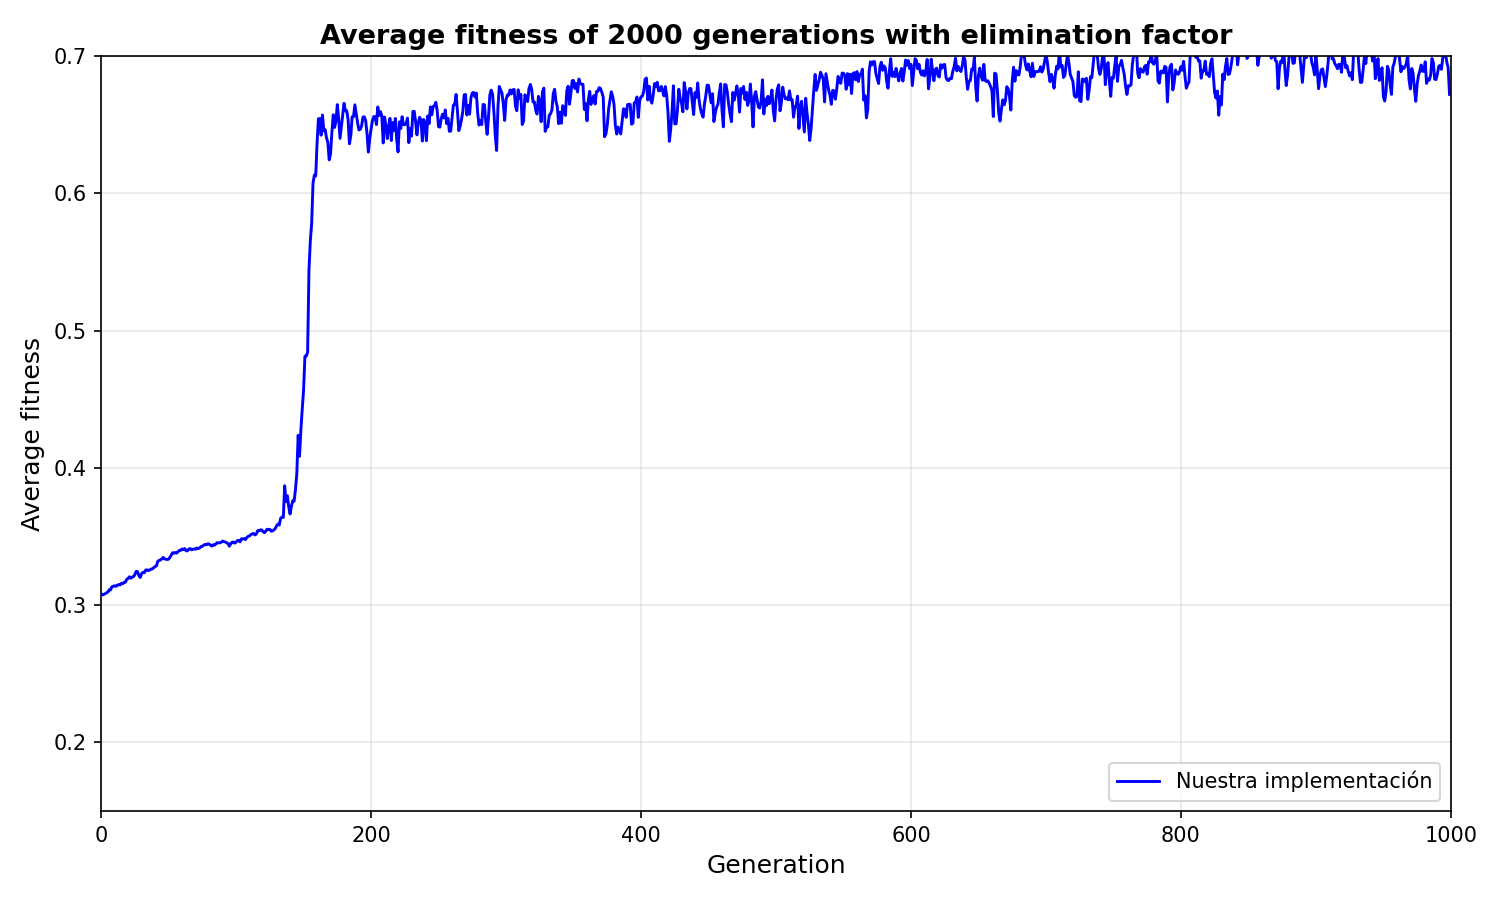
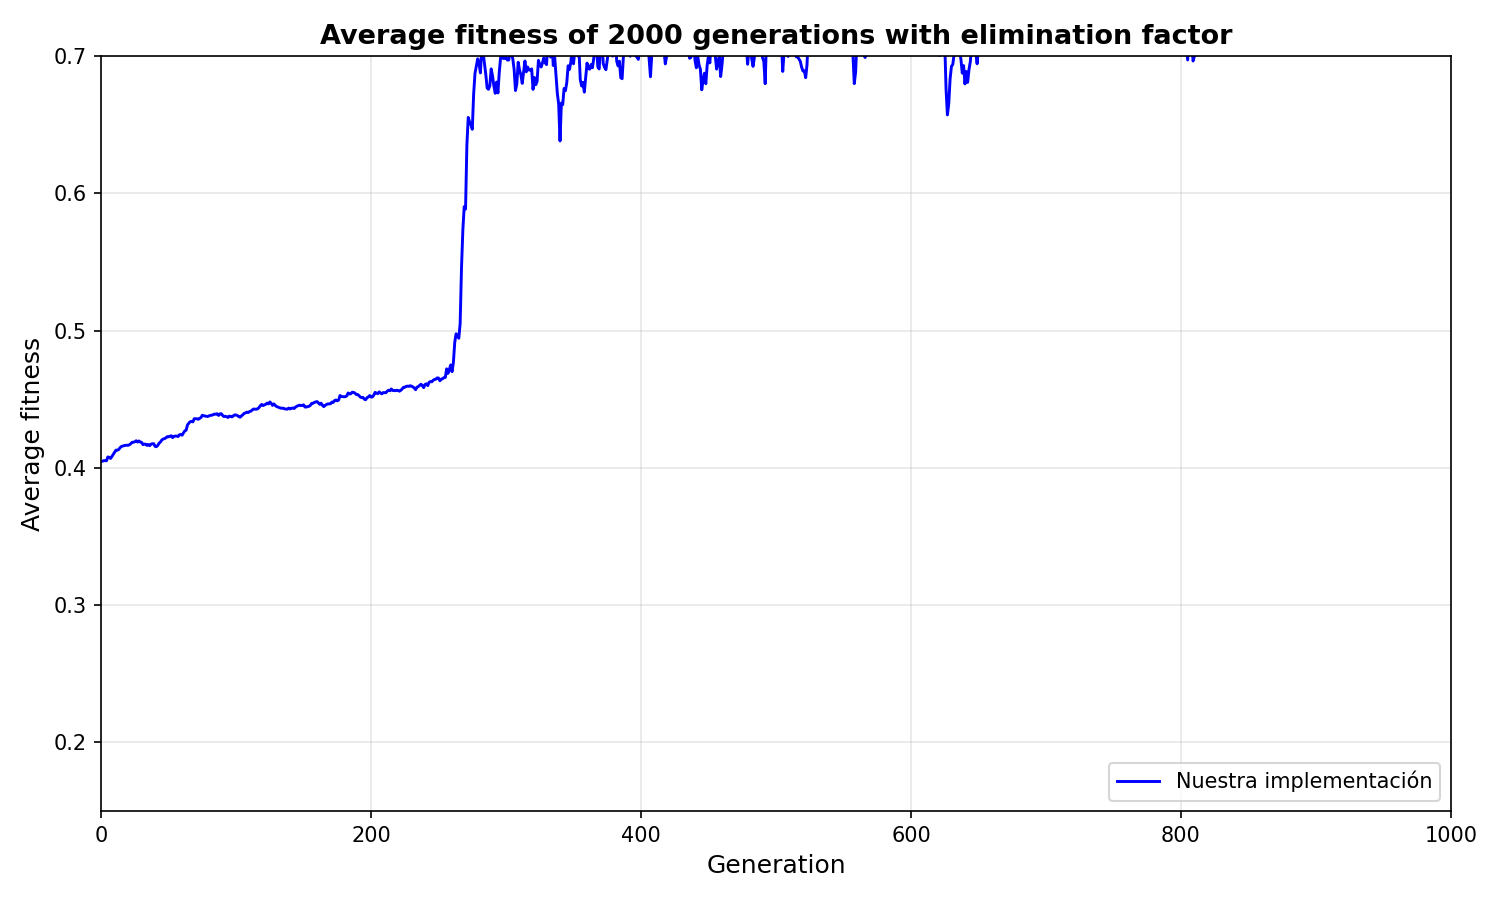
nuevos factores para la fitness function, se reemplaza homogeneidad por un concepto de simetria en el eje y. Se implementa una medidad de balance con respecto al eje x

diff --git a/fitness.py b/fitness.py
@@ -140,18 +140,39 @@ def density_target_ratio(grid):
     return max(0.0, 1.0 - abs(density - target) * 2)
 
 
+def symmetry_ratio(grid):
+    size = grid.shape[0]
+    half = size // 2
+    n_UL = int(np.sum(grid[:half, :half] == 1))
+    n_UR = int(np.sum(grid[:half, half:] == 1))
+    n_LL = int(np.sum(grid[half:, :half] == 1))
+    n_LR = int(np.sum(grid[half:, half:] == 1))
+    S = abs(n_UL - n_UR + n_LL - n_LR)
+    return max(0.0, 1.0 - S / (size * size))
+
+
+def balance_ratio(grid):
+    size = grid.shape[0]
+    half = size // 2
+    O_TR = int(np.sum(grid[:half, :] == 1))
+    O_BR = int(np.sum(grid[half:, :] == 1))
+    B = abs(O_TR - O_BR)
+    return max(0.0, 1.0 - B / (size * size))
+
+
 def fitness_improved(individual):
     maze = Maze.from_chromosome(individual)
     grid = maze.grid
 
     finish = is_finishable(grid)
     ibr = intersected_block_ratio(grid)
-    hf = homogeneity_factor(grid)
     hvr = horizontal_vertical_ratio(grid)
     rs = room_structure_ratio(grid)
     dr = density_target_ratio(grid)
+    sr = symmetry_ratio(grid)
+    br = balance_ratio(grid)
 
-    fit = 0.30 * finish - 0.10 * ibr + 0.15 * hf + 0.10 * hvr + 0.20 * rs + 0.15 * dr
+    fit = 0.25 * finish - 0.10 * ibr + 0.10 * hvr + 0.20 * rs + 0.15 * dr + 0.15 * sr + 0.10 * br
     return (fit,)
 
 